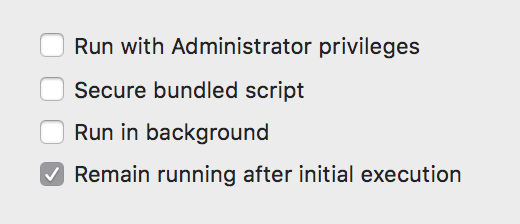
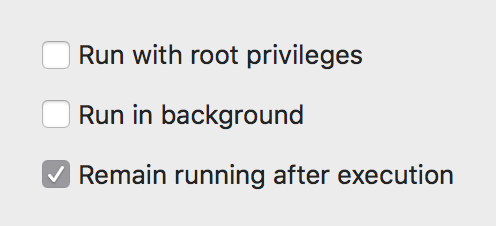
Update documentation & man page, removed references to options that are gone (text encoding, secure script)

diff --git a/Documentation/Documentation.html b/Documentation/Documentation.html
@@ -344,7 +344,7 @@
 <h4>Text Window</h4>
 <p>Shows a window with a text view which displays script output. Please note that the text view is <em>not</em> a full, interactive terminal session, and cannot prompt for input from the user via STDIN. It does not support any of the standard terminal commands and cannot be used to display ncurses-based interfaces.</p>
 
-<p>The styling and properties of the text view can be set by pressing the <strong>Text Settings</strong> button.  This shows a window where text encoding, font, color and size can be configured.</p>
+<p>The styling and properties of the text view can be set by pressing the <strong>Text Settings</strong> button.  This shows a window where font, color and size can be configured.</p>
 
 <img src="images/interface_textwindow.png" style="width:594px; height:502px;" class="centered-image">
 <br>
@@ -416,17 +416,15 @@
 
 <img src="images/special_options.png" style="float: right; width: 260px; height: 112px;">
     
-<p><strong>Requires Administrator privileges:</strong>  If selected, the application prompts for an Administrator password and executes the script with escalated privileges via Apple's Security Framework.  This is not strictly equivalent to running the script as the root user.  For details, see the <a href="http://developer.apple.com/mac/library/documentation/Security/Reference/authorization_ref/Reference/reference.html#//apple_ref/c/func/AuthorizationExecuteWithPrivileges">documentation for Apple's Security Framework.</a></p>
+<p><strong>Run with root privileges:</strong>  If selected, the application prompts for an Administrator password and executes the script with escalated privileges via Apple's Security Framework.  This is not strictly equivalent to running the script <em>as the root user</em>.  For details, see the <a href="http://developer.apple.com/mac/library/documentation/Security/Reference/authorization_ref/Reference/reference.html#//apple_ref/c/func/AuthorizationExecuteWithPrivileges">documentation for Apple's Security Framework.</a></p>
 
-<p><i>Platypus scripts must not use the 'sudo' command</i>. This causes the script to prompt for input via STDIN, and since none is forthcoming, the application will hang indefinitely.</p>
+<p><i>Platypus scripts must not use the 'sudo' command</i>. This causes the script to prompt for input via STDIN, and since no input is forthcoming, the application will hang indefinitely.</p>
 
 <p>Please note that if this option is selected, the script will not print <code>STDERR</code> output due to limitations in the Security APIs.  This can be circumvented by using a shell script to execute another script while piping <code>STDERR</code> into <code>STDOUT</code> (e.g. <code>perl myScript.pl 2>&amp;1</code>).</p>
 
-<p><strong>Secure bundled script:</strong> Script is bundled into the generated application in an obfuscated format. Please note that <em>this will not prevent anyone remotely serious from getting a clear-text version of the script</em>.  In order for the script to be executed, it must be presented in clear text to the interpreter. It is therefore never safe from prying eyes.</p>
+<p><strong>Runs in background:</strong> If selected, the application registers itself as a User Interface Element (LSUIElement). This means the application icon will not show up in the Dock while the app is running.</p>
 
-<p><strong>Runs in background:</strong> If selected, the application registers itself as a User Interface Element. This means the application icon will not show up in the Dock while the app is running.</p>
-
-<p><strong>Remain running after completion</strong>: This option tells the application to stay open once the script has been executed.</p>
+<p><strong>Remain running after completion</strong>: This option tells the application to remain open after the script has executed.</p>
 
 
 
@@ -472,7 +470,7 @@
 <a name="42"></a>
 <h3>Build-Time Options</h3>
 
-<p>Platypus allows you to <strong>create development versions</strong> of your script application.  Ordinarily, Platypus will copy your script and any bundled files into the application it creates.  If <strong>Development Version</strong> is selected in the <strong>Create app</strong> dialog, a symlink to the original script and bundled files is created instead.  This allows you to work on your script while testing it as a Platypus app.  For obvious reasons, this option is not compatible with the "Secure bundled script" option.</p>
+<p>Platypus allows you to <strong>create development versions</strong> of your script application.  Ordinarily, Platypus will copy your script and any bundled files into the application it creates.  If <strong>Development Version</strong> is selected in the <strong>Create app</strong> dialog, a symlink to the original script and bundled files is created instead.  This allows you to work on your script while testing it as a Platypus app.</p>
 
 <img src="images/create_options.png" style="width: 424px; height: 282px;" class="centered-image">
 
@@ -528,7 +526,7 @@
 <a name="51"></a>
 <h2>Preferences</h2>
 
-<p>The Platypus Preferences should be pretty self-explanatory.  You can select an editor of choice, set the default author and bundle identifier settings, set default text encoding, set the behaviour of Platypus on app creation, and install/uninstall the <code>platypus</code> command line tool.</p>
+<p>The Platypus Preferences should be pretty self-explanatory.  You can select an editor of choice, set the default author and bundle identifier settings, set the behaviour of Platypus on app creation, and install/uninstall the <code>platypus</code> command line tool.</p>
 
 <img src="images/preferences.png" style="width: 445px; height: 606px;" class="centered-image">
 
@@ -725,7 +723,7 @@ my $result = dialog("Answer to life, the universe and everything?", "42");
 <br>
 <blockquote>
     
-<p><strong>AdminPrivilegesDemo</strong>: Demonstrates running script with Administrator privileges by creating a file in /etc/ and testing for its existence.</p>
+<p><strong>AdminPrivilegesDemo</strong>: Demonstrates running script with root privileges by creating a file in /etc/ and testing for its existence.</p>
 
 <p><strong>AlertMe</strong>: Demonstrates ALERT: and PROGRESS: syntax in action by showing alerts while manipulating the progress bar.</p>
 
